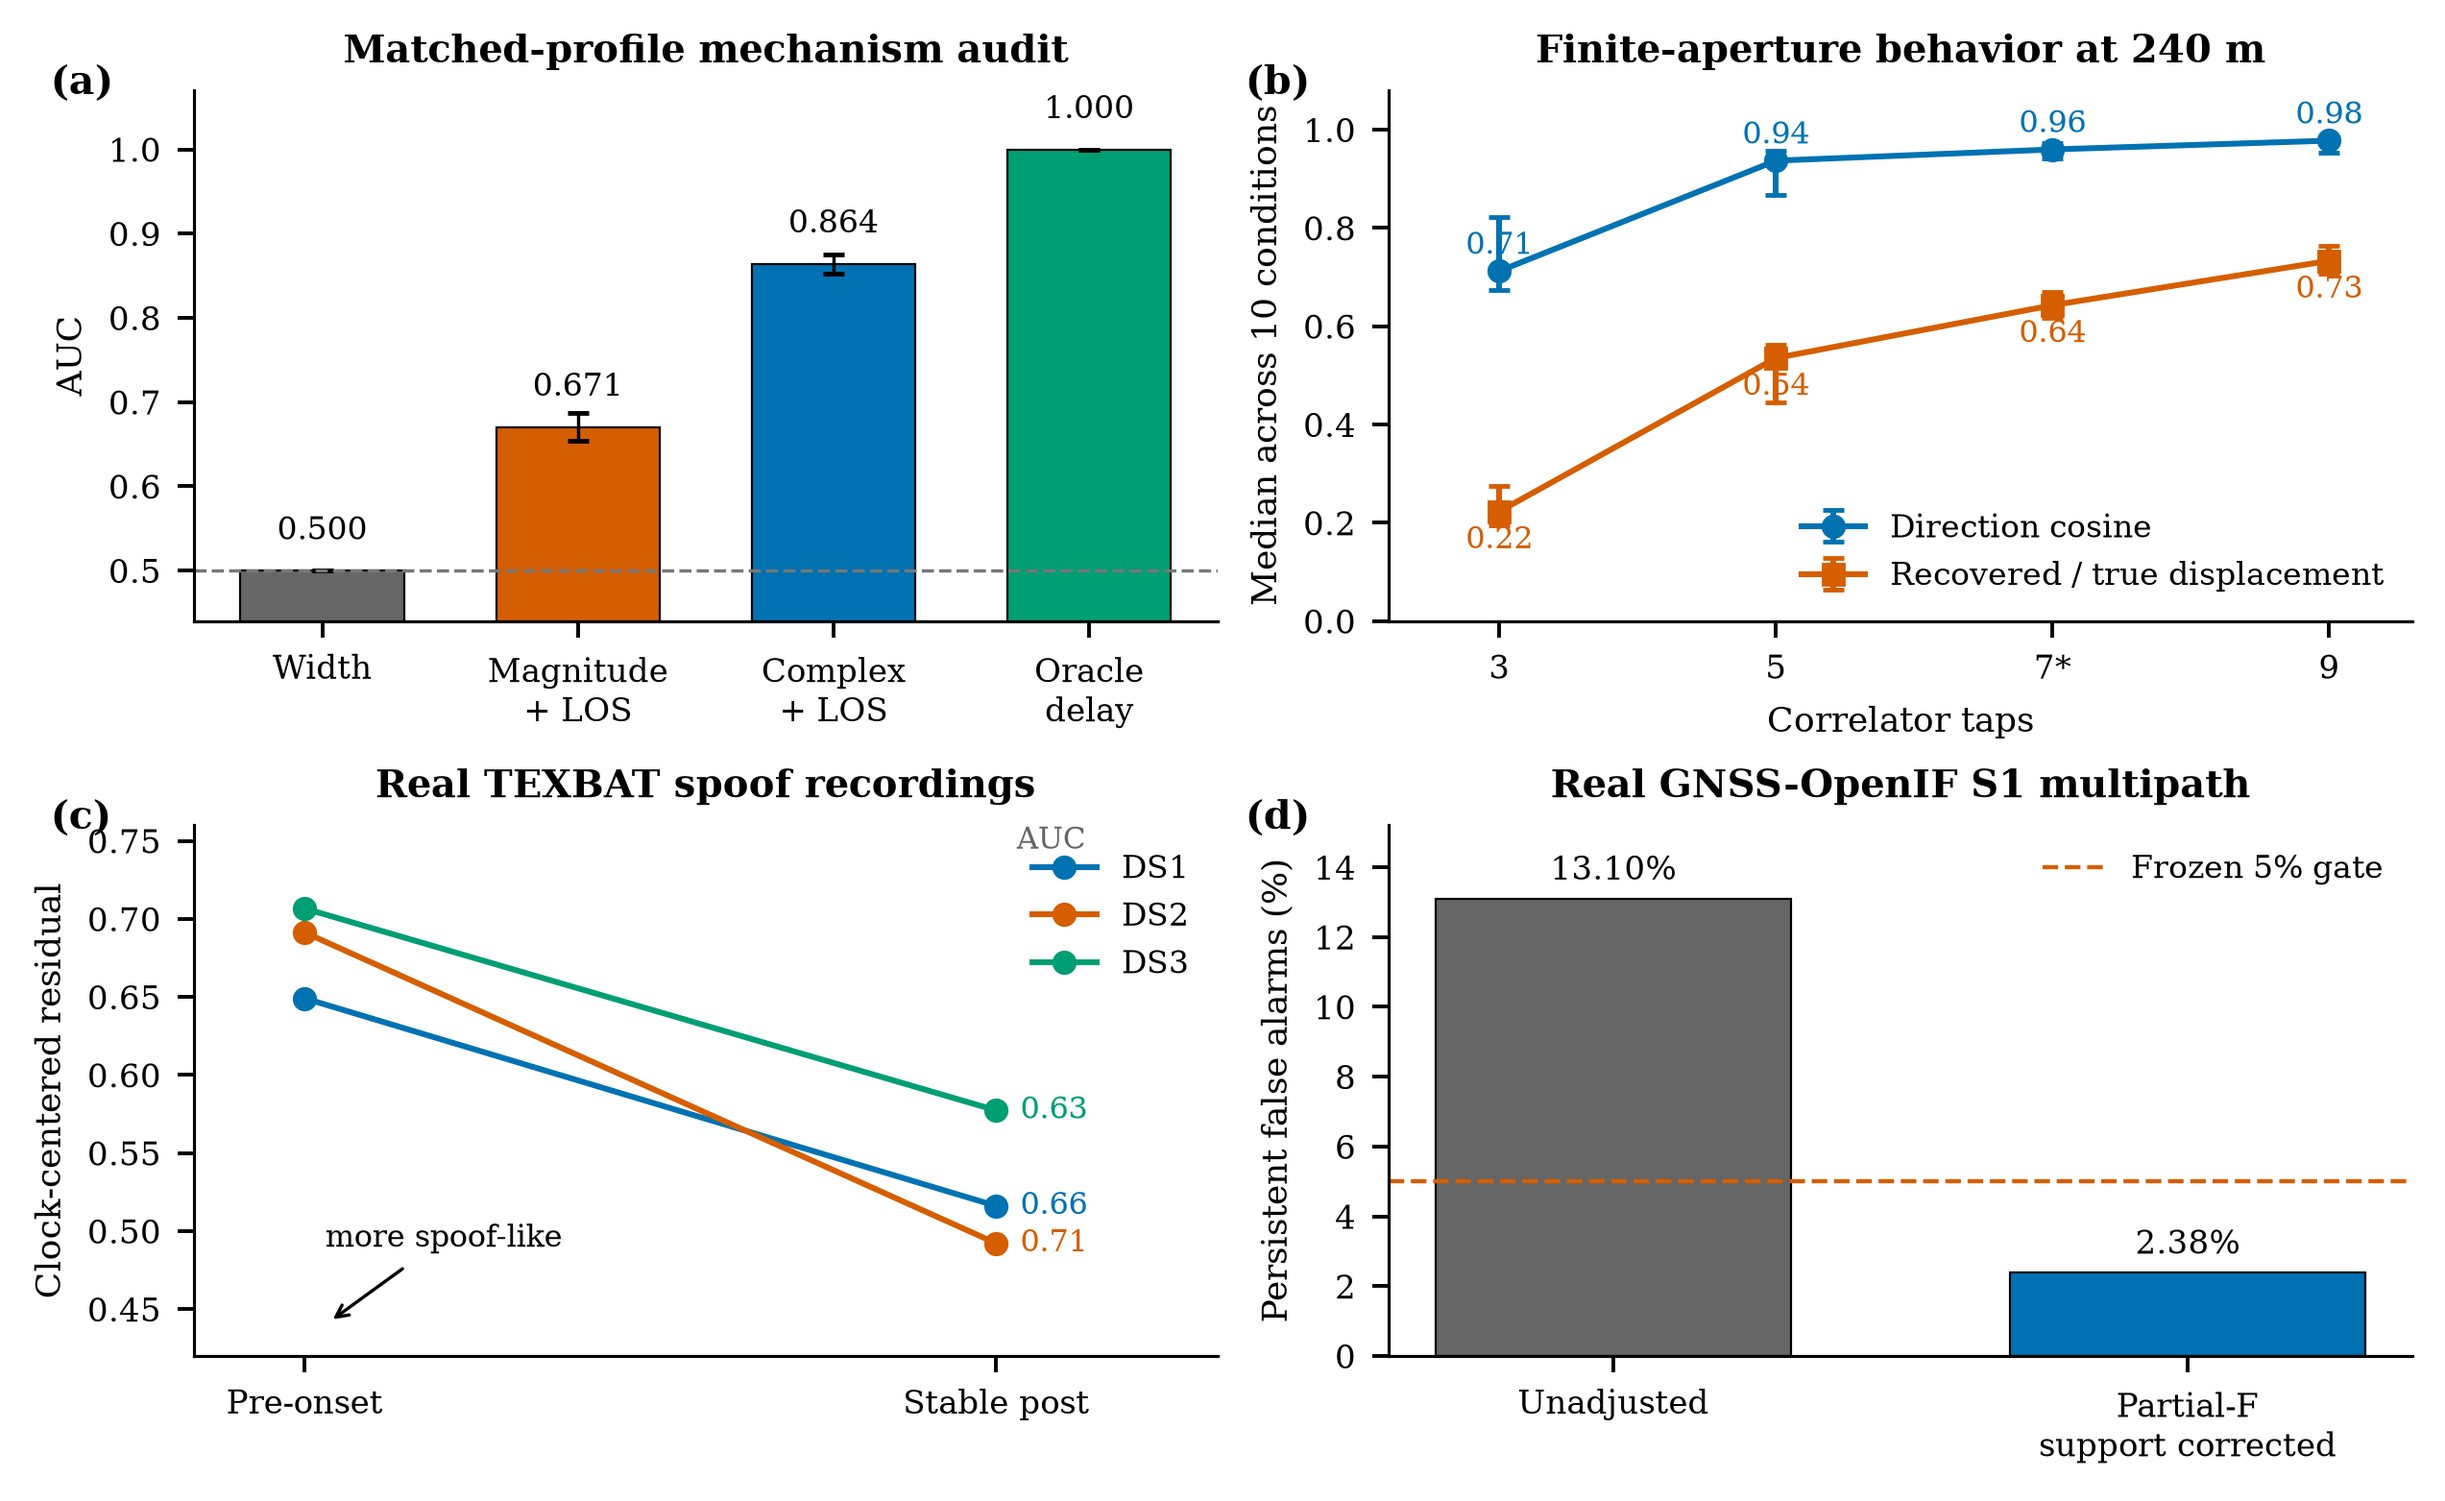
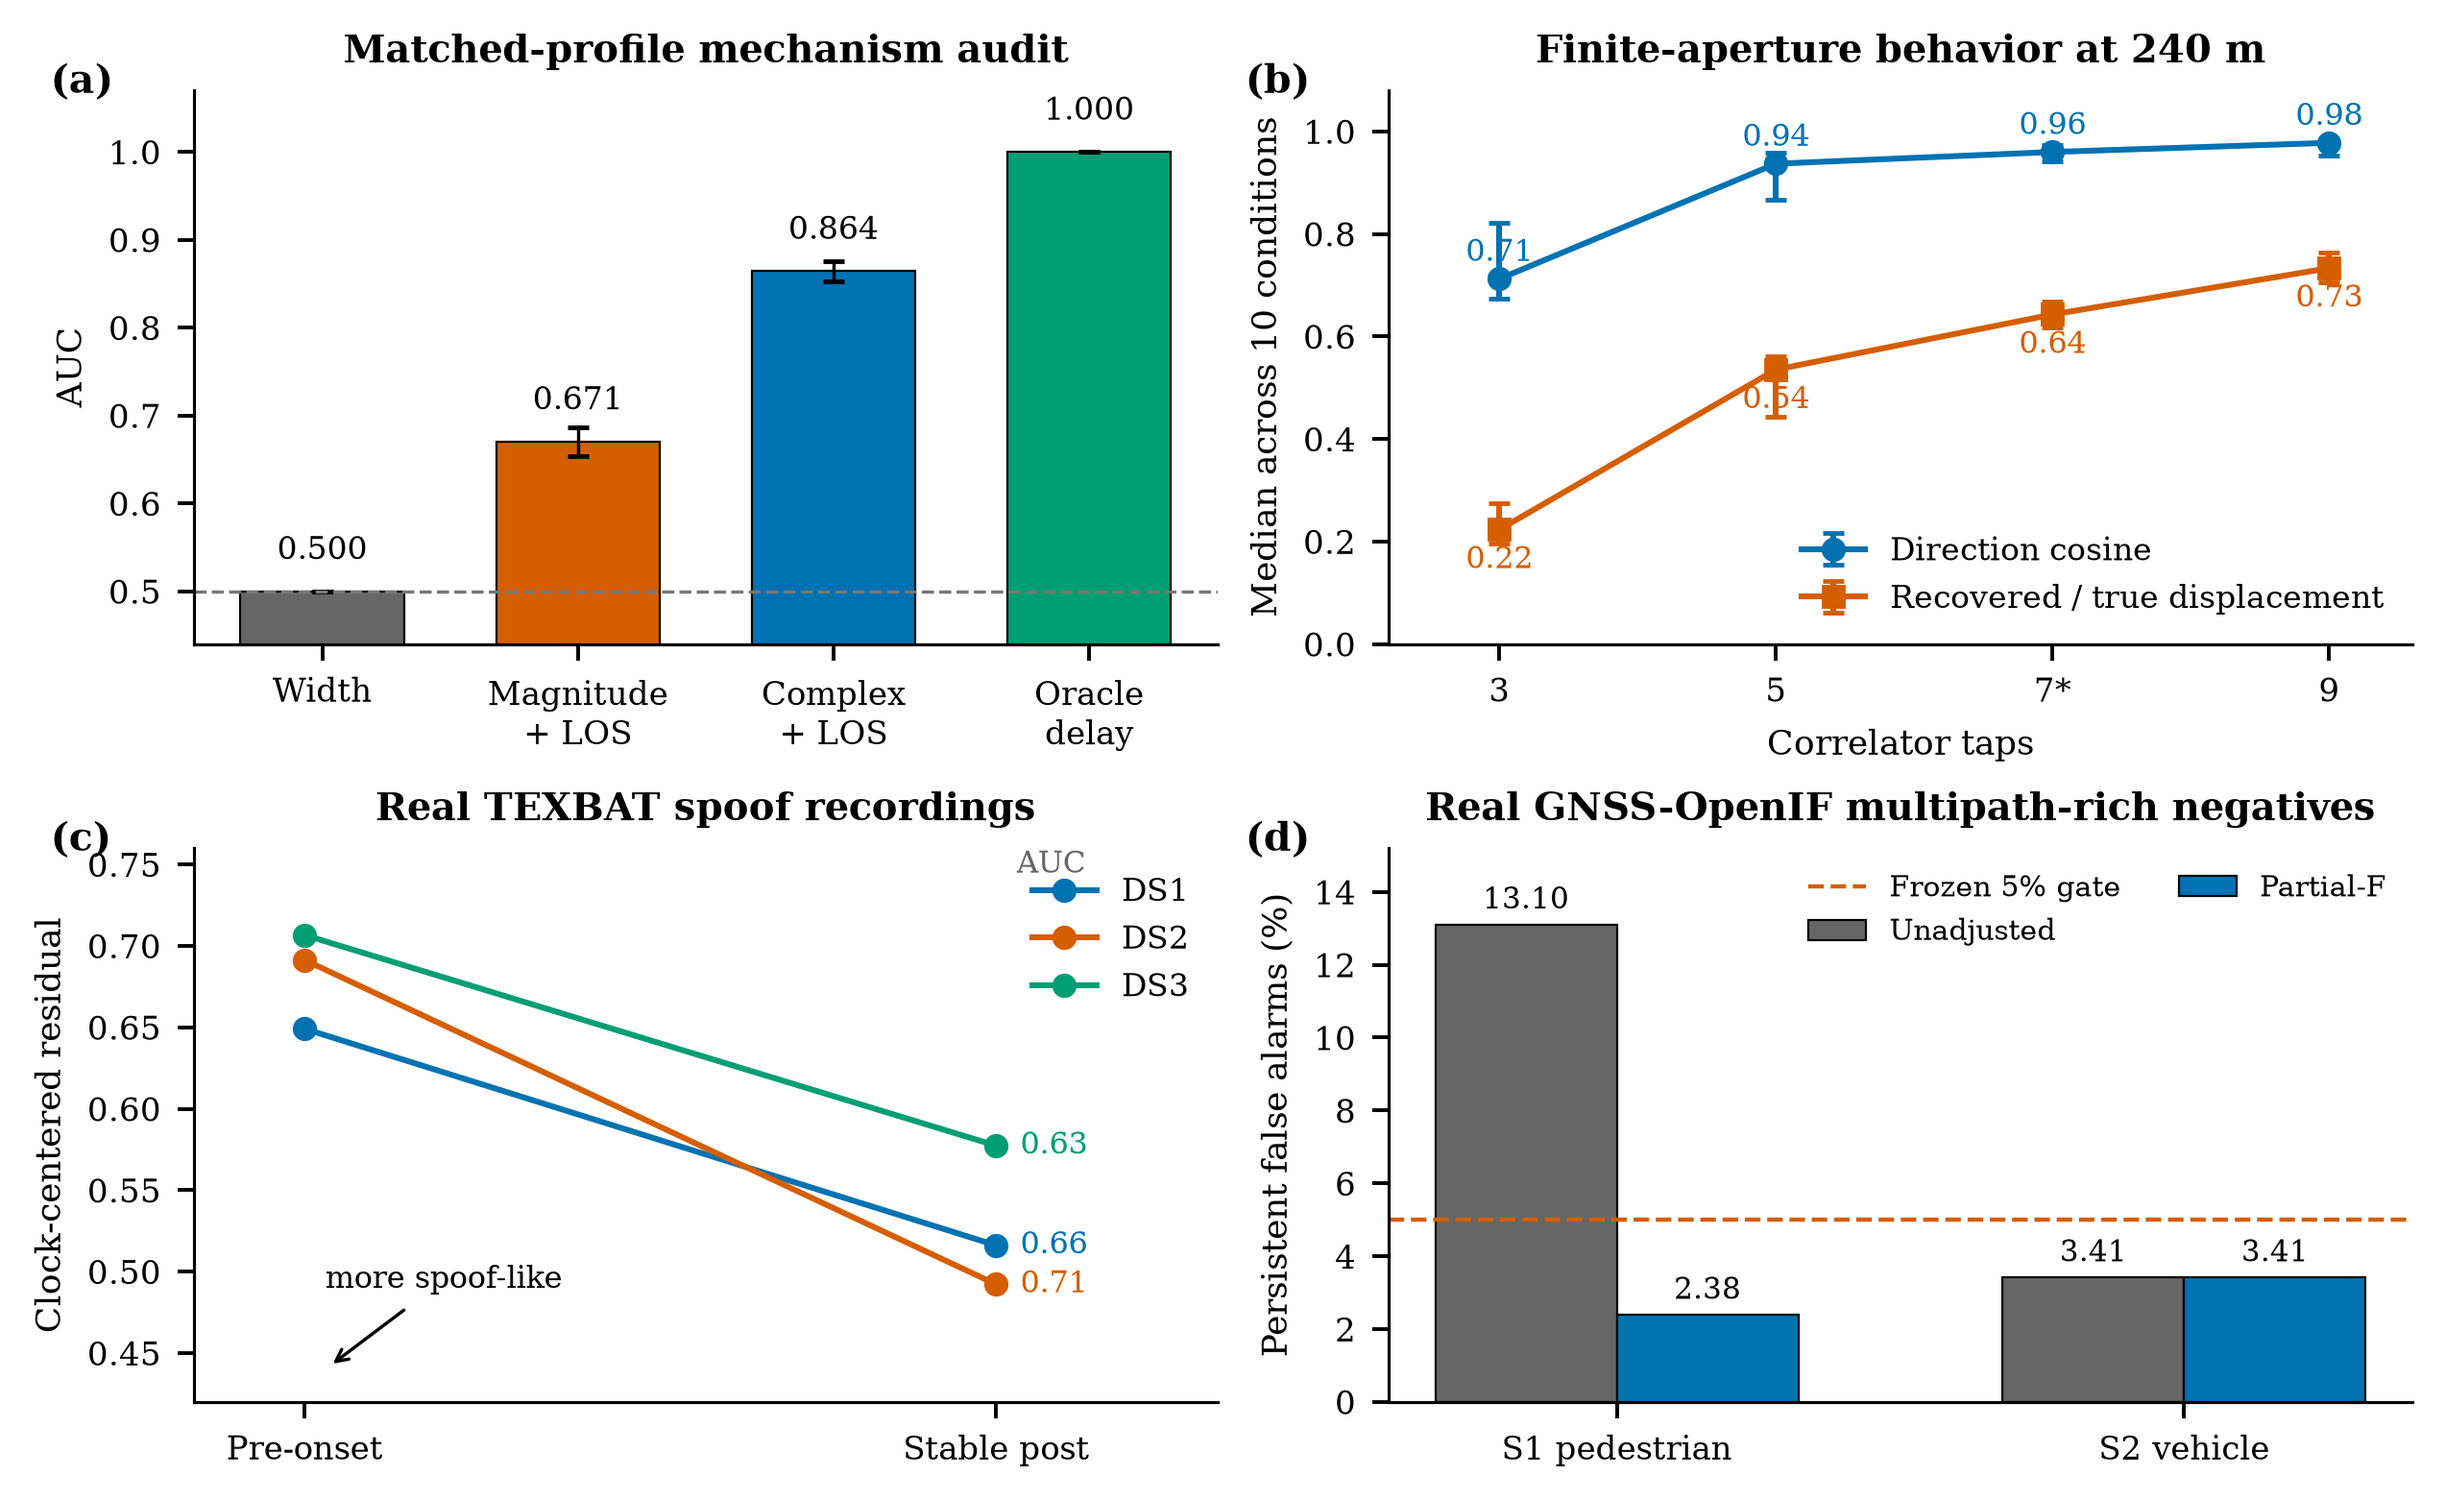
figures: add independent OpenIF S2 result

diff --git a/scripts/plot_wcl_cgc_figures.py b/scripts/plot_wcl_cgc_figures.py
@@ -383,22 +383,46 @@ def _plot_texbat_pre_post(ax: mpl.axes.Axes, texbat: dict[str, object]) -> None:
     _panel_label(ax, "(c)")
 
 
-def _plot_openif_false_alarm(ax: mpl.axes.Axes, openif: dict[str, object]) -> None:
-    result = openif["s1_result"]
-    values = [
-        100.0 * result["legacy_unadjusted_persistent_spoof_alarm_rate"],
-        100.0 * result["persistent_spoof_alarm_rate"],
+def _plot_openif_false_alarm(
+    ax: mpl.axes.Axes,
+    openif_s1: dict[str, object],
+    openif_s2: dict[str, object],
+) -> None:
+    results = [openif_s1["s1_result"], openif_s2["s2_result"]]
+    legacy = [
+        100.0 * result["legacy_unadjusted_persistent_spoof_alarm_rate"]
+        for result in results
     ]
+    corrected = [100.0 * result["persistent_spoof_alarm_rate"] for result in results]
     x = np.arange(2)
-    ax.bar(x, values, color=[GRAY, BLUE], width=0.62, edgecolor="black", linewidth=0.45)
+    width = 0.32
+    ax.bar(
+        x - width / 2,
+        legacy,
+        color=GRAY,
+        width=width,
+        edgecolor="black",
+        linewidth=0.45,
+        label="Unadjusted",
+    )
+    ax.bar(
+        x + width / 2,
+        corrected,
+        color=BLUE,
+        width=width,
+        edgecolor="black",
+        linewidth=0.45,
+        label="Partial-F",
+    )
     ax.axhline(5.0, color=ORANGE, linestyle="--", lw=0.9, label="Frozen 5% gate")
-    for index, value in enumerate(values):
-        ax.text(index, value + 0.55, f"{value:.2f}%", ha="center", fontsize=7)
-    ax.set_xticks(x, ["Unadjusted", "Partial-F\nsupport corrected"])
+    for offsets, values in ((-width / 2, legacy), (width / 2, corrected)):
+        for index, value in enumerate(values):
+            ax.text(index + offsets, value + 0.45, f"{value:.2f}", ha="center", fontsize=6.4)
+    ax.set_xticks(x, ["S1 pedestrian", "S2 vehicle"])
     ax.set_ylim(0, 15.2)
     ax.set_ylabel("Persistent false alarms (%)")
-    ax.set_title("Real GNSS-OpenIF S1 multipath")
-    ax.legend(frameon=False, loc="upper right")
+    ax.set_title("Real GNSS-OpenIF multipath-rich negatives")
+    ax.legend(frameon=False, loc="upper right", ncols=2, fontsize=6.2)
     ax.spines[["top", "right"]].set_visible(False)
     _panel_label(ax, "(d)")
 
@@ -408,25 +432,34 @@ def build_evidence_figure(output_dir: Path) -> tuple[Path, Path, list[Path]]:
     aperture_path = ROOT / "artifacts/cgc_rf_ga_v1/condition_aperture_summary.csv"
     seven_tap_path = ROOT / "docs/results/cgc_rf_7tap_aperture_audit_v1_condition_summary.csv"
     texbat_path = ROOT / "docs/results/cgc_texbat_external_v1_summary.json"
-    openif_path = ROOT / "docs/results/gnss_openif_s1_real_multipath_v1_summary.json"
+    openif_s1_path = ROOT / "docs/results/gnss_openif_s1_real_multipath_v1_summary.json"
+    openif_s2_path = ROOT / "docs/results/gnss_openif_s2_real_multipath_v1_summary.json"
     train = json.loads(train_path.read_text(encoding="utf-8"))
     aperture = pd.read_csv(aperture_path)
     seven_tap = pd.read_csv(seven_tap_path)
     aperture = pd.concat([aperture, seven_tap], ignore_index=True)
     texbat = json.loads(texbat_path.read_text(encoding="utf-8"))
-    openif = json.loads(openif_path.read_text(encoding="utf-8"))
+    openif_s1 = json.loads(openif_s1_path.read_text(encoding="utf-8"))
+    openif_s2 = json.loads(openif_s2_path.read_text(encoding="utf-8"))
 
     figure, axes = plt.subplots(2, 2, figsize=(7.16, 4.35), constrained_layout=True)
     _plot_auc_ablation(axes[0, 0], train)
     _plot_aperture(axes[0, 1], aperture)
     _plot_texbat_pre_post(axes[1, 0], texbat)
-    _plot_openif_false_alarm(axes[1, 1], openif)
+    _plot_openif_false_alarm(axes[1, 1], openif_s1, openif_s2)
     pdf = output_dir / "wcl_cgc_evidence.pdf"
     png = output_dir / "wcl_cgc_evidence.png"
     figure.savefig(pdf, bbox_inches="tight")
     figure.savefig(png, bbox_inches="tight")
     plt.close(figure)
-    return pdf, png, [train_path, aperture_path, seven_tap_path, texbat_path, openif_path]
+    return pdf, png, [
+        train_path,
+        aperture_path,
+        seven_tap_path,
+        texbat_path,
+        openif_s1_path,
+        openif_s2_path,
+    ]
 
 
 def main() -> int:
